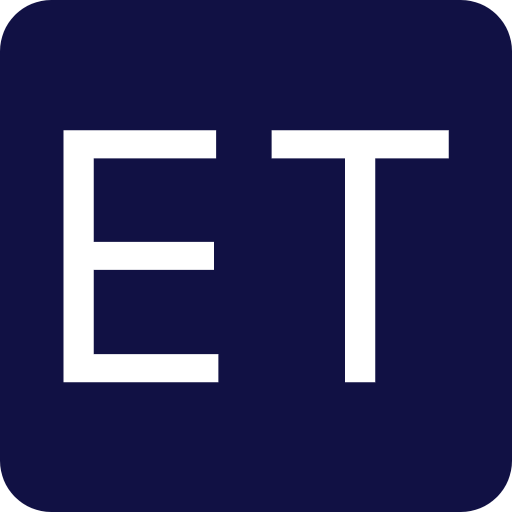
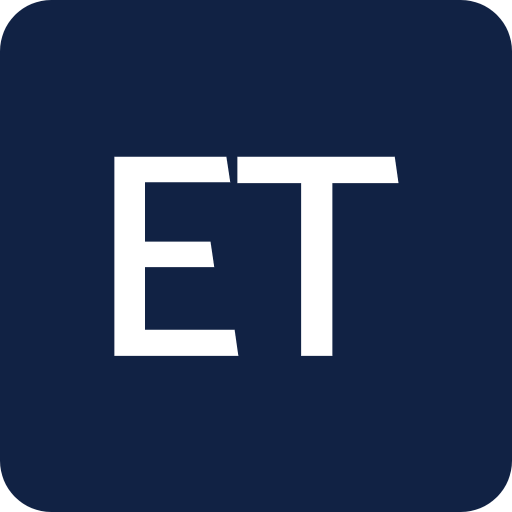
Updates

Changed region(s): [[0.125, 0.25, 0.875, 0.75]]

diff --git a/sw.js b/sw.js
@@ -1,1 +1,1 @@
-if(!self.define){let e,i={};const n=(n,r)=>(n=new URL(n+".js",r).href,i[n]||new Promise(i=>{if("document"in self){const e=document.createElement("script");e.src=n,e.onload=i,document.head.appendChild(e)}else e=n,importScripts(n),i()}).then(()=>{let e=i[n];if(!e)throw new Error(`Module ${n} didn’t register its module`);return e}));self.define=(r,c)=>{const o=e||("document"in self?document.currentScript.src:"")||location.href;if(i[o])return;let f={};const a=e=>n(e,o),d={module:{uri:o},exports:f,require:a};i[o]=Promise.all(r.map(e=>d[e]||a(e))).then(e=>(c(...e),f))}}define(["./workbox-8c29f6e4"],function(e){"use strict";self.skipWaiting(),e.clientsClaim(),e.precacheAndRoute([{url:"registerSW.js",revision:"f0488d6a514a70c2795d9256c166ed21"},{url:"maskable_icon.png",revision:"78131fb85a636c05b0bd4479fca101d7"},{url:"index.html",revision:"5866ff32467667da1e402eb8c5a260d3"},{url:"favicon.ico",revision:"4ab5268ca946d68e76ff1c2637326a3f"},{url:"favicon-32x32.png",revision:"95689c591c3d939aa861499e9a0bdb9b"},{url:"favicon-16x16.png",revision:"70d96a573589571281499d930f97d743"},{url:"apple-touch-icon.png",revision:"78131fb85a636c05b0bd4479fca101d7"},{url:"android-chrome-512x512.png",revision:"14c143789ca7970e58e4f3323109c38f"},{url:"android-chrome-192x192.png",revision:"6fa73ce3c0efecf3991a465ff426ec06"},{url:"assets/index-Bq1KXvBH.js",revision:null},{url:"android-chrome-192x192.png",revision:"6fa73ce3c0efecf3991a465ff426ec06"},{url:"android-chrome-512x512.png",revision:"14c143789ca7970e58e4f3323109c38f"},{url:"apple-touch-icon.png",revision:"78131fb85a636c05b0bd4479fca101d7"},{url:"favicon.ico",revision:"4ab5268ca946d68e76ff1c2637326a3f"},{url:"manifest.webmanifest",revision:"a2a60d67b77dafded56e5a0d00fdb7be"}],{}),e.cleanupOutdatedCaches(),e.registerRoute(new e.NavigationRoute(e.createHandlerBoundToURL("index.html")))});
+if(!self.define){let e,i={};const n=(n,c)=>(n=new URL(n+".js",c).href,i[n]||new Promise(i=>{if("document"in self){const e=document.createElement("script");e.src=n,e.onload=i,document.head.appendChild(e)}else e=n,importScripts(n),i()}).then(()=>{let e=i[n];if(!e)throw new Error(`Module ${n} didn’t register its module`);return e}));self.define=(c,r)=>{const o=e||("document"in self?document.currentScript.src:"")||location.href;if(i[o])return;let d={};const s=e=>n(e,o),f={module:{uri:o},exports:d,require:s};i[o]=Promise.all(c.map(e=>f[e]||s(e))).then(e=>(r(...e),d))}}define(["./workbox-8c29f6e4"],function(e){"use strict";self.skipWaiting(),e.clientsClaim(),e.precacheAndRoute([{url:"registerSW.js",revision:"f0488d6a514a70c2795d9256c166ed21"},{url:"maskable_icon.png",revision:"887c8d902e56cf7e6d16e801c6737ecf"},{url:"index.html",revision:"5866ff32467667da1e402eb8c5a260d3"},{url:"favicon.ico",revision:"481efe813228506a97257cb7c7033e5f"},{url:"favicon-32x32.png",revision:"6b6b18f31dfe58e66293411b64231ba7"},{url:"favicon-16x16.png",revision:"77e01228ba9d2ec396db28684dde613d"},{url:"apple-touch-icon.png",revision:"887c8d902e56cf7e6d16e801c6737ecf"},{url:"android-chrome-512x512.png",revision:"eac6dddb7541b99a00f0776c606e43c3"},{url:"android-chrome-192x192.png",revision:"6a6cb9c2e5f142055a49151f866348c2"},{url:"assets/index-Bq1KXvBH.js",revision:null},{url:"android-chrome-192x192.png",revision:"6a6cb9c2e5f142055a49151f866348c2"},{url:"android-chrome-512x512.png",revision:"eac6dddb7541b99a00f0776c606e43c3"},{url:"apple-touch-icon.png",revision:"887c8d902e56cf7e6d16e801c6737ecf"},{url:"favicon.ico",revision:"481efe813228506a97257cb7c7033e5f"},{url:"manifest.webmanifest",revision:"a2a60d67b77dafded56e5a0d00fdb7be"}],{}),e.cleanupOutdatedCaches(),e.registerRoute(new e.NavigationRoute(e.createHandlerBoundToURL("index.html")))});
